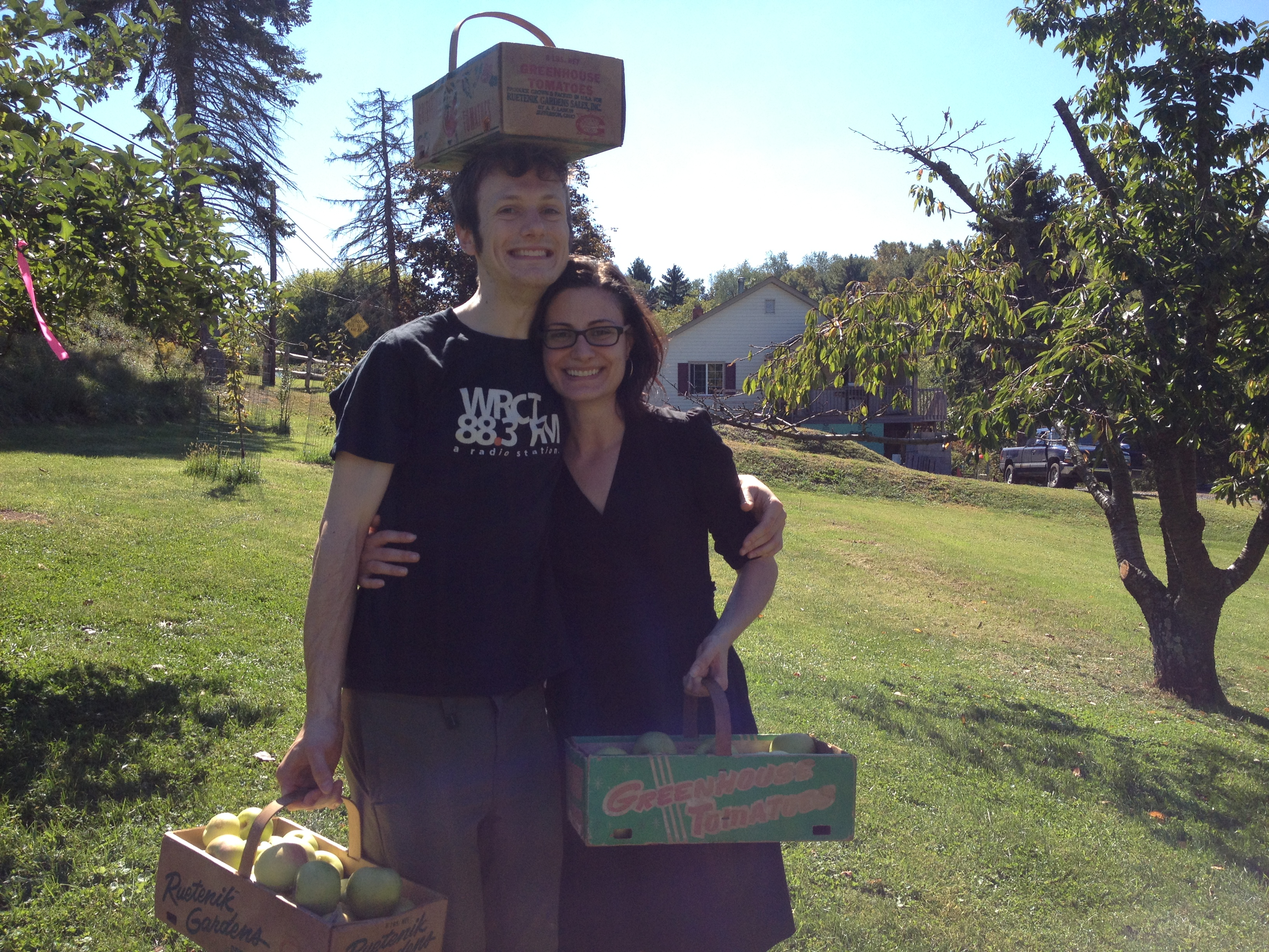
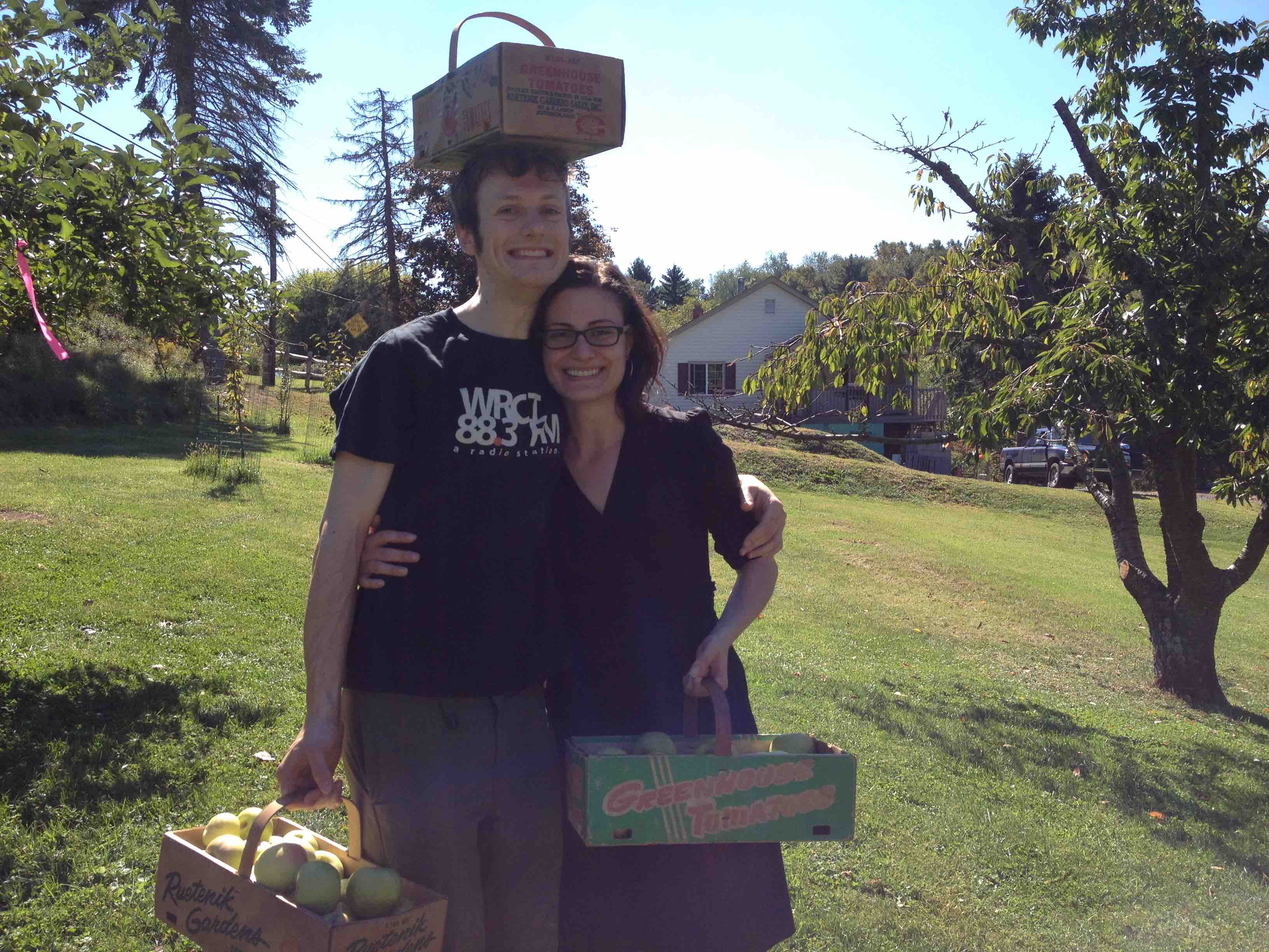
fix a couple minor bugs including images

diff --git a/index.html b/index.html
@@ -38,7 +38,7 @@
           <!-- Collect the nav links, forms, and other content for toggling -->
           <div class="collapse navbar-collapse" id="bs-example-navbar-collapse-1">
             <ul class="nav navbar-nav">
-              <li class="active"><a href="#about-us">About Us<span class="sr-only">(current)</span></a></li>
+              <li><a href="#about-us">About Us<span class="sr-only">(current)</span></a></li>
               <li><a href="#attending">Attending</a></li>
               <li><a href="#hotels">Hotels</a></li>
               <li><a href="#transportation">Transportation</a></li>
@@ -56,7 +56,7 @@
 
       <p>note this is not live yet, more info to come, you know</p>
 
-      <img src="images/baybridge.jpg" width="800" height="600" />
+      <img class="img-responsive" src="images/baybridge.jpg" width="800" height="600" />
       
       <a id="about-us" class="anchor"> </a>
       <h2>About Us</h2>
@@ -67,7 +67,7 @@
     <p>Now we're living in San Francisco, where Tati does User Experience Research at Facebook and Dan finishes his PhD in Human-Computer Interaction remotely.</p>
 
     
-      <img src="images/apples2.jpg" width="800" height="600" /><br />
+      <img class="img-responsive" src="images/apples.jpg" width="800" height="600" /><br />
       <!--TODO: why is the link showing us the whole picture along with the section header -->
       <a id="attending" class="anchor"> </a>
       <h2>Attending</h2>
@@ -93,7 +93,7 @@
       <p><b>Stay here if:</b>
       <ul>
         <li>You want transportation to be easy.</li>
-        <li>You're not a late-night partier.</li>
+        <li>You probably won't be interested in an afterparty at 11pm.</li>
         <li>You want easy access to downtown touristy things.</li>
         <li>You like the Victorian style.</li>
         <li>You don't mind booking early.</li>
@@ -125,6 +125,7 @@
       (We've got some other layers, including just fun things to do; click the icon in the top right to find those layers) <br />
       <iframe src="https://www.google.com/maps/d/u/0/embed?mid=ziHzkj9eHJZw.kO_Z-ggWauWA" width="640" height="480"></iframe>
 
+      <p><!-- hacky p tag to make linking to the transportation anchor work --></p>
       <a id="transportation" class="anchor"> </a>
       <h2>Transportation</h2>
       <p>For transportation to and from the wedding, there will be a shuttle to/from the Priory hotel, and for everyone else, we will give you a code for free Uber rides to and from the Mattress Factory. (Uber is an app that lets you hire people to drive you, like a taxi. If you don't have an Uber account, <a href="https://www.uber.com/invite/bp4lq">sign up now!</a>)</p>
@@ -137,12 +138,15 @@
       
       <a id="rsvp" class="anchor"> </a>
       <h2>RSVP</h2>
-        <iframe src="https://docs.google.com/forms/d/1rqnRl4vd3DojbP1FnY0EyCKNqNk9NHSxDtvunCQcLUY/viewform?embedded=true" width="760" height="500" frameborder="0" marginheight="0" marginwidth="0">Loading...</iframe>
+        <p>Please RSVP by May 24. If you're staying at the Priory, note that they have an earlier deadline of May 10 to get a reserved room at our rates.</p>
+        <iframe src="https://docs.google.com/forms/d/1rqnRl4vd3DojbP1FnY0EyCKNqNk9NHSxDtvunCQcLUY/viewform?embedded=true" width="640" height="640" frameborder="0" marginheight="0" marginwidth="0">Loading...</iframe>
 
+      <p><!-- hacky p tag to make linking to the registry anchor work --></p>
       <a id="registry" class="anchor"> </a>
       <h2>Registry</h2>
-        <p>We live in a small apartment in a bustling city, and we already have all the household goods we need, AND we love to travel, so we've decided to do something a bit different with our registry: we're going to China! For our honeymoon, we hope to visit Sichuan and Tibet, so we're asking for your help to make that happen.</p> 
-        <p>We're managing it through a site called Honeyfund, and you can <a href="http://www.honeyfund.com/wedding/tatianddan">find our page here</a></p>
+        <p>Thanks so much if you're considering a gift for us. We live in a small apartment in a bustling city, and we already have all the household goods we need, AND we love to travel, so we've decided to do something a bit different with our registry: we're going to China! For our honeymoon, we hope to visit Sichuan and Tibet, so instead of physical goods, we're asking for a bit of money to make that happen.</p>
+        <p>We're managing it through a site called Honeyfund, and you can <a href="http://www.honeyfund.com/wedding/tatianddan">find our registry here</a>.</p>
+      <img class="img-responsive" src="images/goldengatebridge.jpg" width="800" height="600"/>
     </div> <!--header clearfix-->
   </div> <!--container-->
 
